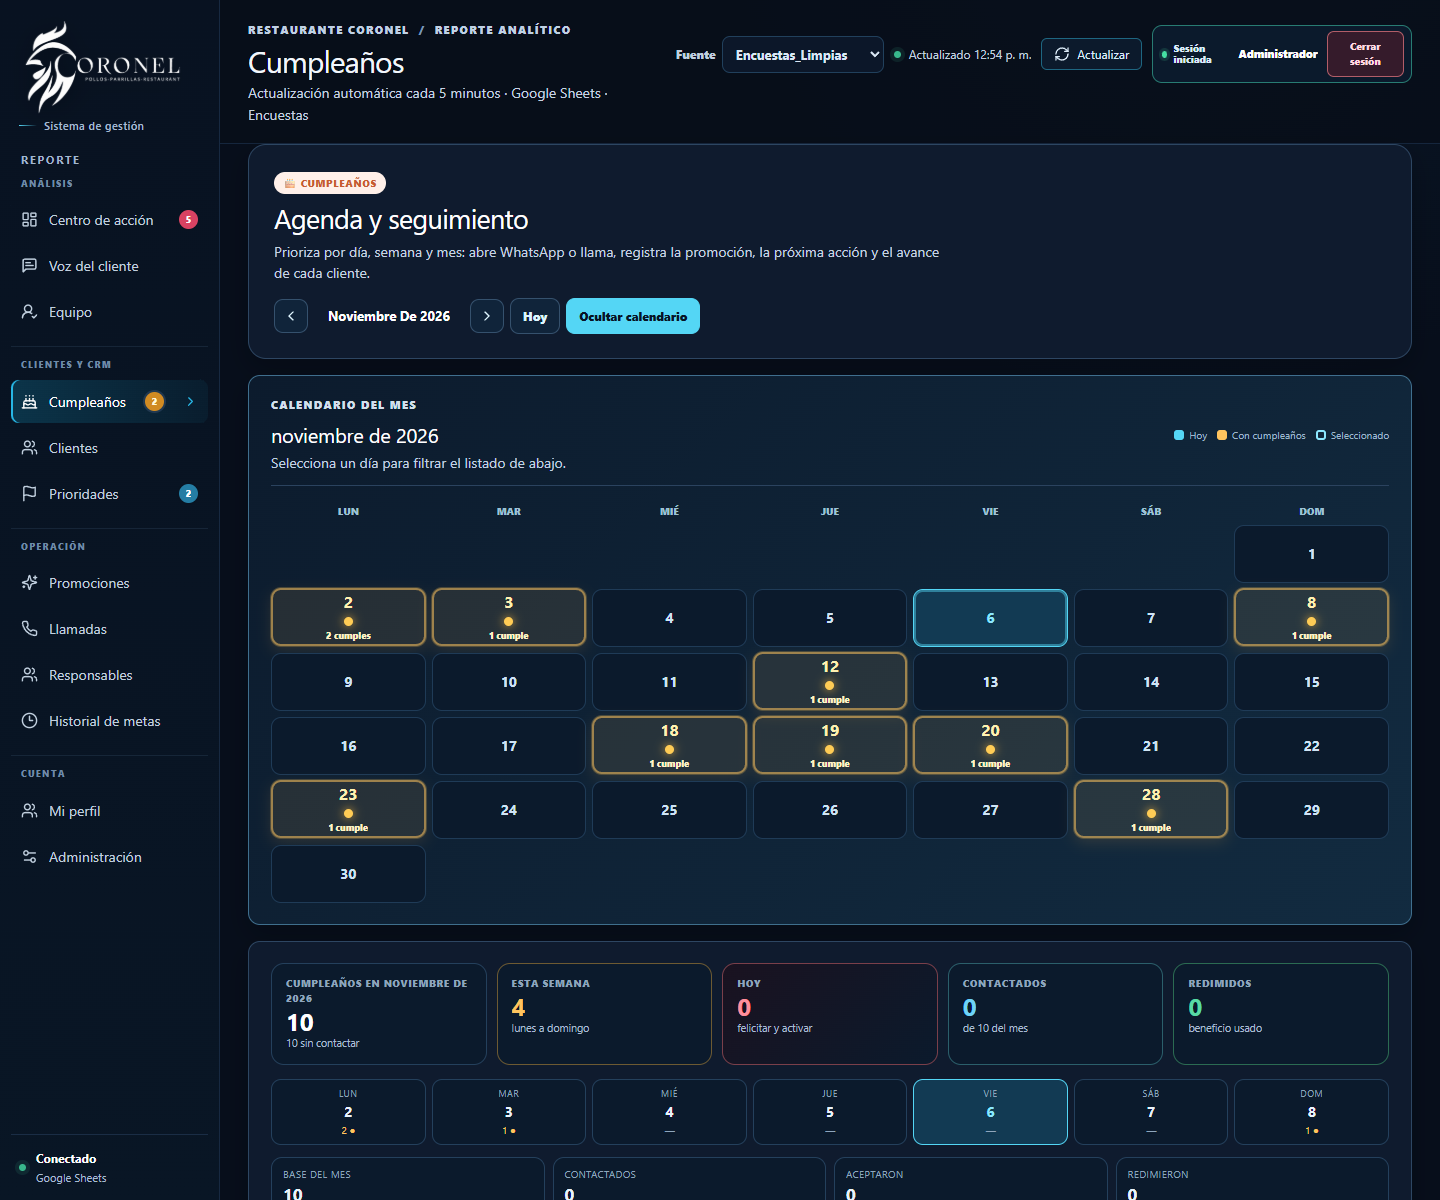
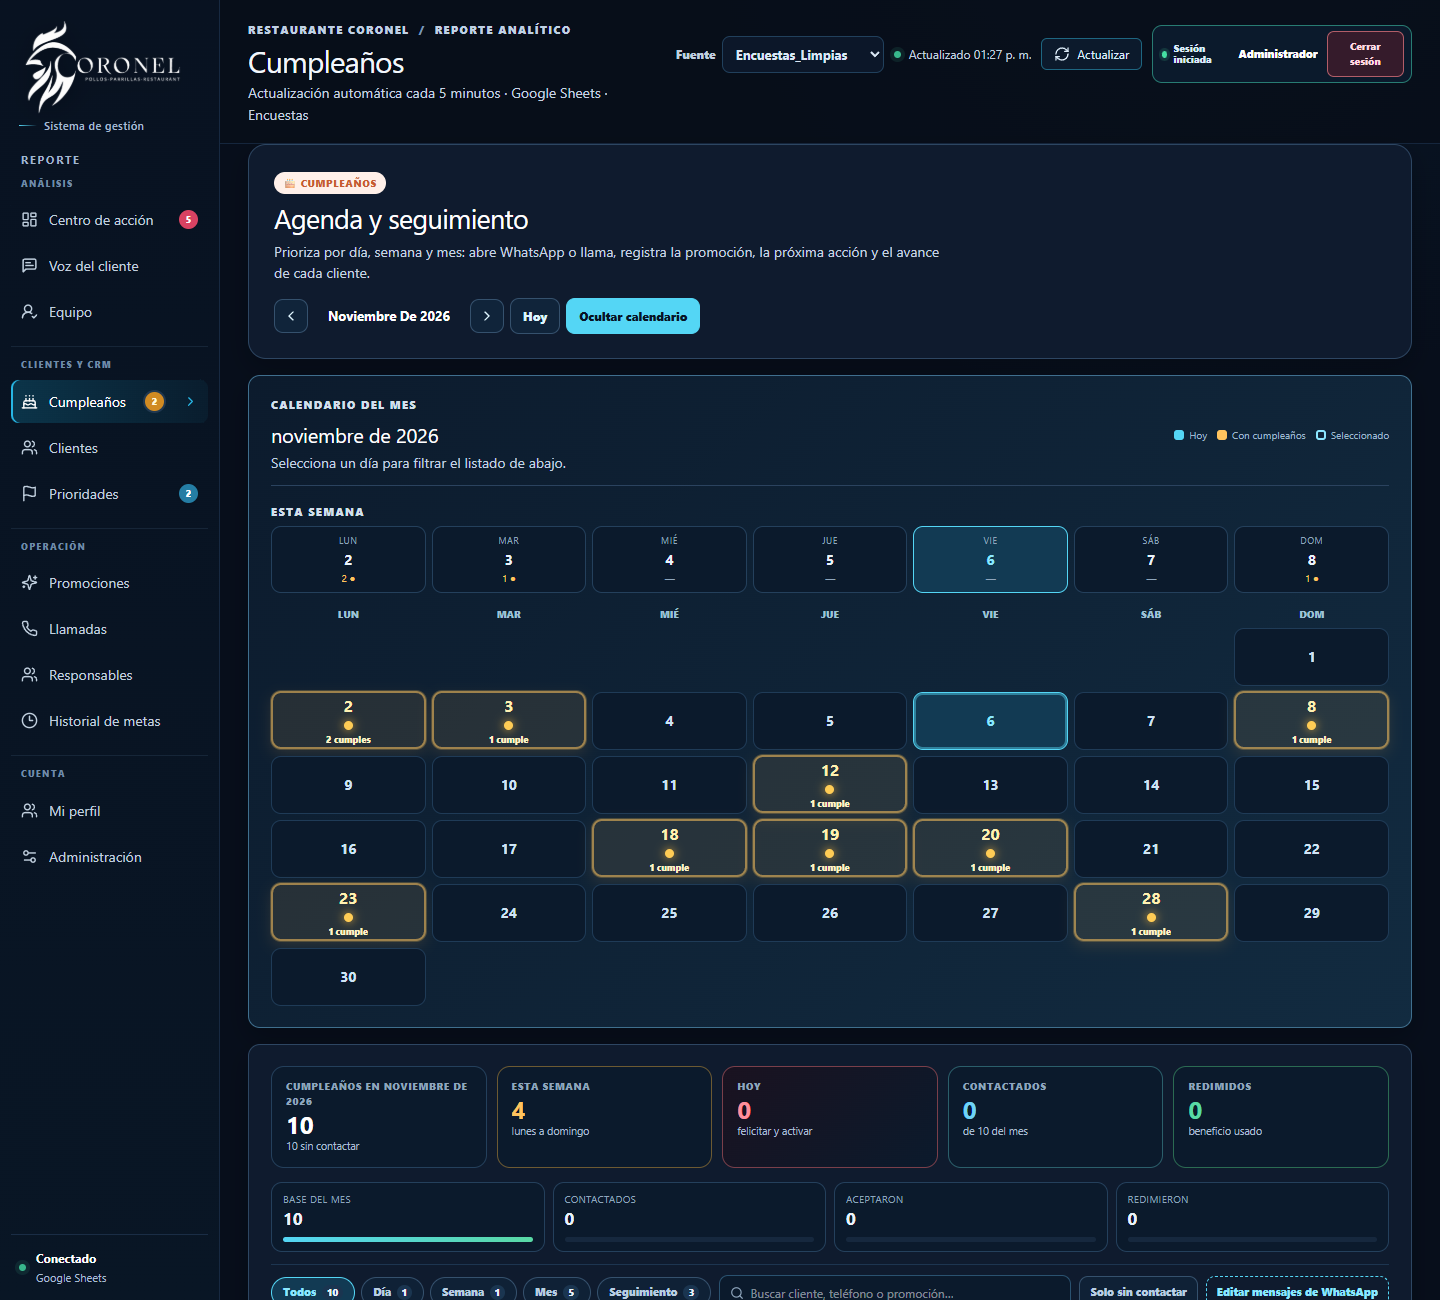
Cumpleanos: tira semanal dentro del calendario; vista por defecto sin calendario

diff --git a/client/src/pages/Home.tsx b/client/src/pages/Home.tsx
@@ -2647,19 +2647,6 @@ function BirthdayWorkspace({
         </div>
       </div>
 
-      <div className="bw-week-strip" aria-label="Cumpleaños de la semana">
-        {weekDays.map(day => (
-          <div
-            className={`bw-week-day ${day.isToday ? "today" : ""} ${day.count ? "has-events" : ""}`}
-            key={day.iso}
-          >
-            <small>{day.label}</small>
-            <b>{day.day}</b>
-            <span>{day.count ? `${day.count} ●` : "—"}</span>
-          </div>
-        ))}
-      </div>
-
       <div className="bw-funnel">
         <div className="bw-funnel-step">
           <small>Base del mes</small>
@@ -3604,6 +3591,23 @@ function BirthdayPage({
     [items]
   );
   const todayKey = `${now.getFullYear()}-${String(now.getMonth() + 1).padStart(2, "0")}-${String(now.getDate()).padStart(2, "0")}`;
+  const weekStrip = useMemo(() => {
+    const base = new Date();
+    const start = new Date(base.getFullYear(), base.getMonth(), base.getDate());
+    const offset = start.getDay() === 0 ? -6 : 1 - start.getDay();
+    return Array.from({ length: 7 }, (_, index) => {
+      const date = new Date(start);
+      date.setDate(date.getDate() + offset + index);
+      const iso = toDateInputValue(date);
+      return {
+        iso,
+        label: date.toLocaleDateString("es-PE", { weekday: "short" }),
+        day: date.getDate(),
+        isToday: iso === toDateInputValue(start),
+        count: items.filter(item => toDateInputValue(item.target) === iso).length,
+      };
+    });
+  }, [items]);
   const selectedItems = selectedDate ? (itemsByDate[selectedDate] ?? []) : [];
   const calendarCells = Array.from(
     { length: firstWeekday + daysInMonth },
@@ -3681,6 +3685,21 @@ function BirthdayPage({
                   Ver todo el mes
                 </button>
               )}
+            </div>
+          </div>
+          <div className="birthday-week-inline">
+            <p className="eyebrow">ESTA SEMANA</p>
+            <div className="bw-week-strip" aria-label="Cumpleaños de la semana">
+              {weekStrip.map(day => (
+                <div
+                  className={`bw-week-day ${day.isToday ? "today" : ""} ${day.count ? "has-events" : ""}`}
+                  key={day.iso}
+                >
+                  <small>{day.label}</small>
+                  <b>{day.day}</b>
+                  <span>{day.count ? `${day.count} ●` : "—"}</span>
+                </div>
+              ))}
             </div>
           </div>
           <div className="birthday-calendar-weekdays">

diff --git a/client/src/index.css b/client/src/index.css
@@ -1475,3 +1475,7 @@ input[type="date"]::-webkit-calendar-picker-indicator { filter: invert(1) bright
 .bw-attempts { color: #ffb3ba; font-size: 10px; font-weight: 800; }
 .bw-funnel-alert { cursor: pointer; text-align: left; font-size: 11px; }
 .bw-funnel-alert:hover { filter: brightness(1.1); }
+
+/* La tira semanal vive dentro del calendario */
+.birthday-week-inline { margin: 14px 0 4px; }
+.birthday-week-inline .eyebrow { margin-bottom: 6px; }
